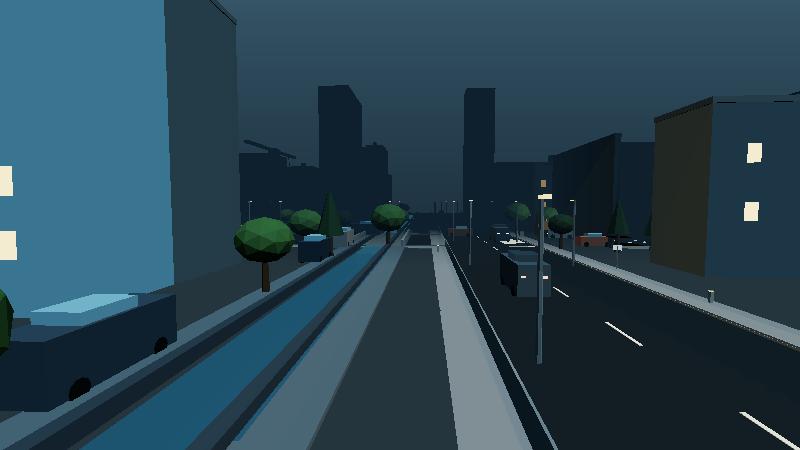
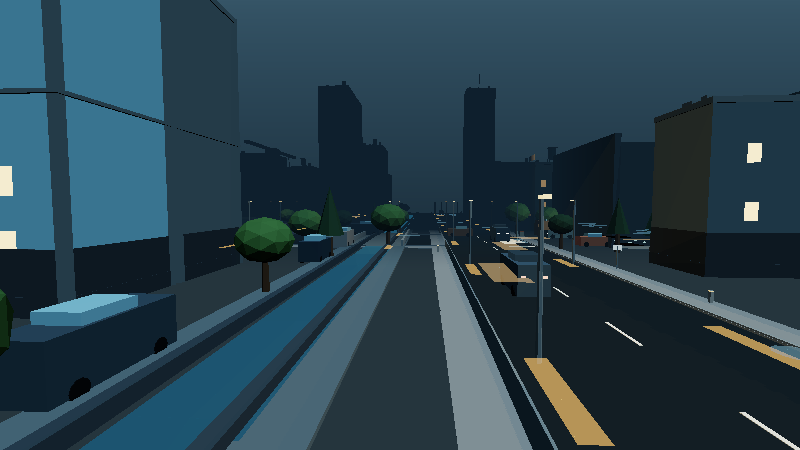
Wet streets, marker framing, and honest docs
- cityview: wet-street response driven by the weather -- asphalt darkens and
  glosses, pavement follows, ~120 puddles (24 on a phone) fade in, and each
  street lamp smears an additive reflection across the road
- config: puddle budget per tier
- tools/errand-shot: pick the approach camera by measuring how much of the
  frame the marker actually covers, instead of guessing a stand-off point;
  regenerates the three errand previews so the dockhand is visible in the open
- README: document the audio mixer, the wet-street pass, the new stealth
  numbers, and the four gameplay bugs this pass found

diff --git a/game_web/src/cityview.js b/game_web/src/cityview.js
@@ -127,6 +127,8 @@ export class CityView {
     this.time = 0;
     this.waterMeshes = [];
     this.lampLights = [];
+    this.wetMaterials = []; // asphalt/sidewalk meshes that darken and gloss in rain
+    this.puddles = [];
     this.rand = mulberry32(0xc17a1);
   }
 
@@ -175,6 +177,7 @@ export class CityView {
     this.buildLamps();
     this.buildProps();
     this.buildParkedVehicles();
+    this.buildPuddles();
     this.buildRain();
 
     this.stats.meshes = this.countMeshes();
@@ -243,6 +246,9 @@ export class CityView {
     bin.box(this.materials.concrete, 0, 0.06, -76.9, 280, 0.24, 2.2);
 
     const merged = bin.flush(this.root, "ground");
+    // The two biggest surfaces in the frame: the weather drives how they read.
+    this.wetMaterials.push({ material: this.materials.asphalt, kind: "asphalt" });
+    this.wetMaterials.push({ material: this.materials.sidewalk, kind: "sidewalk" });
     this.stats.triangles += merged.triangles;
   }
 
@@ -694,6 +700,39 @@ export class CityView {
       this.lampLights.push(light);
     }
     this.stats.instances += list.length * 2;
+
+    // Wet-road reflections. A real specular highlight needs a renderer that
+    // does specular; a phone at 1x with fog does not sell it either. These are
+    // thin additive streaks laid along the road under each lit lamp, which is
+    // how the wet-street look is actually achieved: the light smears in the
+    // water instead of sitting on it. Opacity is driven by wetness, so the
+    // street only mirrors when it has rained.
+    const streakGeo = new THREE.PlaneGeometry(1, 1);
+    streakGeo.rotateX(-Math.PI / 2);
+    const streakMat = new THREE.MeshBasicMaterial({
+      color: 0xffc879,
+      transparent: true,
+      opacity: 0,
+      blending: THREE.AdditiveBlending,
+      depthWrite: false,
+    });
+    const streaks = new THREE.InstancedMesh(streakGeo, streakMat, list.length);
+    streaks.name = "wet-lamp-streaks";
+    streaks.renderOrder = 2;
+    const sm = new THREE.Matrix4();
+    list.forEach((l, i) => {
+      // Sit the smear on the road side of the pole and stretch it away from
+      // the kerb, the way a lamp's reflection runs across wet asphalt.
+      sm.compose(
+        new THREE.Vector3(l.x + l.side * 2.2, 0.03, l.z),
+        new THREE.Quaternion().setFromEuler(new THREE.Euler(0, Math.PI / 2, 0)),
+        new THREE.Vector3(0.9, 1, 5.2),
+      );
+      streaks.setMatrixAt(i, sm);
+    });
+    streaks.instanceMatrix.needsUpdate = true;
+    this.root.add(streaks);
+    this.lampStreaks = streakMat;
   }
 
   // -------------------------------------------------------------- props
@@ -859,6 +898,87 @@ export class CityView {
     }
   }
 
+  // ------------------------------------------------------------- puddles
+  // Wet street response. In daylight a city can be dry and still read; in the
+  // rain the ground is the biggest surface on screen, and leaving it matte is
+  // what makes a rainy scene look like a clear one with lines drawn on it.
+  // Puddles are flat discs with an additive grey-blue sheen whose opacity is
+  // driven by the weather; the asphalt and pavement materials darken and gloss
+  // with the same signal.
+  buildPuddles() {
+    const count = this.tier.puddles ?? 0;
+    this.wetMaterials = [];
+    this.puddles = [];
+    if (!count) return;
+    // Big, smooth-ish discs: 12 segments is plenty at this size and keeps the
+    // whole set to one instanced draw call.
+    const geo = new THREE.CircleGeometry(1, 12);
+    geo.rotateX(-Math.PI / 2);
+    // Puddles are read by their *shine*, so they get a cool emissive body that
+    // sits just under the street's value. Plain reflective water is invisible
+    // in this scene: there is no environment map at night and nothing to
+    // reflect, so a physically-correct mirror just returns black.
+    const material = new THREE.MeshStandardMaterial({
+      color: 0x50646e,
+      emissive: 0x33474f,
+      emissiveIntensity: 0.85,
+      roughness: 0.12,
+      metalness: 0.45,
+      transparent: true,
+      opacity: 0,
+      depthWrite: false,
+      polygonOffset: true,
+      polygonOffsetFactor: -2,
+      polygonOffsetUnits: -2,
+    });
+    const inst = new THREE.InstancedMesh(geo, material, count);
+    inst.name = "puddles";
+    const m = new THREE.Matrix4();
+    const rand = mulberry32(0x9a17);
+    let placed = 0;
+    let guard = 0;
+    while (placed < count && guard++ < count * 40) {
+      const r = this.city.roads[Math.floor(rand() * this.city.roads.length)];
+      const x = r.x1 + rand() * (r.x2 - r.x1);
+      const z = r.z1 + rand() * (r.z2 - r.z1);
+      if (this.inWater(x, z)) continue;
+      // Sit each puddle on the road surface, not the base slab.
+      // Road surfaces sit at y = 0.02, so puddles go just above that.
+      m.compose(
+        new THREE.Vector3(x, 0.028, z),
+        new THREE.Quaternion().setFromEuler(new THREE.Euler(0, rand() * Math.PI, 0)),
+        new THREE.Vector3(0.7 + rand() * 2.1, 1, 0.5 + rand() * 1.4),
+      );
+      inst.setMatrixAt(placed, m);
+      placed += 1;
+    }
+    inst.count = placed;
+    inst.instanceMatrix.needsUpdate = true;
+    inst.renderOrder = 1;
+    this.root.add(inst);
+    this.puddleMaterial = material;
+    this.stats.instances += placed;
+  }
+
+  /** Rain response for the ground: puddles fade in, streets darken and gloss. */
+  setWetness(level) {
+    const w = Math.max(0, Math.min(1, level));
+    if (this.puddleMaterial) this.puddleMaterial.opacity = 0.03 + w * 0.34;
+    if (this.lampStreaks) this.lampStreaks.opacity = w * 0.17;
+    // Asphalt gets darker and much shinier as it soaks; the pavement follows
+    // more slowly, which is what makes a street look wet rather than painted.
+    for (const entry of this.wetMaterials) {
+      const mat = entry.material;
+      if (entry.kind === "asphalt") {
+        mat.roughness = 0.62 - w * 0.4;
+        mat.metalness = 0.12 + w * 0.5;
+      } else {
+        mat.roughness = 0.95 - w * 0.3;
+        mat.metalness = 0.02 + w * 0.14;
+      }
+    }
+  }
+
   // --------------------------------------------------------------- rain
   buildRain() {
     const count = this.tier.rain || 0;
@@ -898,8 +1018,15 @@ export class CityView {
   }
 
   // --------------------------------------------------------------- update
-  update(dt, camera, weather = null) {
+  update(dt, camera, weather = null, wetness = null) {
     this.time += dt;
+    // Wet ground follows the same wetness signal the audio and HUD use, so the
+    // puddles do not disagree with the rain the player can hear.
+    if (wetness !== null && wetness !== undefined) {
+      this.setWetness(wetness);
+    } else if (weather) {
+      this.setWetness(weather.rainRate ?? 0);
+    }
     if (weather) {
       this.rainRate = weather.rainRate;
       const wa = weather.windAngle;

diff --git a/game_web/src/main.js b/game_web/src/main.js
@@ -569,7 +569,7 @@ function frame(now) {
     weather.update(dtReal);
     wetness.update(dtReal, weather.rainRate);
     if (animator) animator.update(dtReal);
-    cityView.update(dtReal, camera, weather);
+    cityView.update(dtReal, camera, weather, wetness.level);
     render(now / 1000, dtReal);
     return;
   }
@@ -600,7 +600,7 @@ function frame(now) {
   }
   view.syncCharacters(world);
   view.update(dtReal, world.time, world.hud());
-  cityView.update(dtReal, camera, weather);
+  cityView.update(dtReal, camera, weather, wetness.level);
   syncStreetActors(dtReal);
   syncErrandMarkers(now / 1000);
   updateAudio(dtReal);

diff --git a/game_web/src/config.js b/game_web/src/config.js
@@ -16,6 +16,7 @@ export const TIERS = {
     shadowMapSize: 512,
     propShadowCasters: false,
     rain: 900,
+    puddles: 24,
     fogNear: 26,
     fogFar: 120,
     drawDistance: 150,
@@ -36,6 +37,7 @@ export const TIERS = {
     shadowMapSize: 1024,
     propShadowCasters: false,
     rain: 1800,
+    puddles: 64,
     fogNear: 30,
     fogFar: 160,
     drawDistance: 220,
@@ -56,6 +58,7 @@ export const TIERS = {
     shadowMapSize: 2048,
     propShadowCasters: true,
     rain: 3200,
+    puddles: 120,
     fogNear: 34,
     fogFar: 190,
     drawDistance: 260,

diff --git a/game_web/README.md b/game_web/README.md
@@ -50,7 +50,14 @@ npm run smoke          # drives the page, presses keys, checks the frame
 
 - **Simulation** (`src/world.js`, `src/collision.js`, `src/geom.js`): stamina,
   noise propagation, hearing, cone-of-sight detection, suspicion, hunt, catch,
-  checkpoint restart, timed objective, scoring. 25 of the checks cover this.
+  checkpoint restart, timed objective, scoring. Stealth has to be survivable:
+  a crouch is silent, a walk carries ~5 m, a sprint ~9 m; a collector runs at
+  1.55× their patrol walk while they can see you and jogs at 1.15× to where they
+  last saw you, and gives up a hunt after 7.5 s without a sighting. Kerbs and
+  quay lips are *steps*, not walls, so the lane mouth is open. 32 of the checks
+  cover this, including a flood-fill that proves every objective is walkable
+  from the spawn. `tools/bot.mjs` is a headless playthrough bot used to find the
+  above; it reports win rate, time, sightings and where a run stalls.
 - **Level** (`src/level.js`, `src/scene.js`): a night loading lane with shop
   fronts, cover, a walkway, a dock and a market mouth; 7 practicals, one
   shadow-casting moon, procedural canvas textures. All study geometry.
@@ -63,15 +70,28 @@ npm run smoke          # drives the page, presses keys, checks the frame
   harbour. Roads, pavements, kerbs, road paint, a canal with three bridges, a
   harbour basin and a park pond are all generated from the same plain data the
   tests use. 26 of the checks cover it.
+- **Audio** (`src/audio.js`): a synthesised mixer, no audio assets. Rain, wind and
+  city hum beds follow the weather blend; tyres are panned by distance and
+  speed; footsteps follow the animation phase and change with stance and wetness;
+  thunder, honks, splashes, landings and errand pings are event-driven. Fifteen
+  voices, with the drop count kept. Starts only on the Begin click, `M` mutes.
 - **Street life** (`src/traffic.js`): 4–14 vehicles on closed routes that keep to
   the road network, brake for the player, each other and pedestrians, honk when
   stuck, and knock the player down on contact; 8–16 pedestrians who keep to the
   pavement, flee fast cars, and can be scattered by the chaos director.
+- **Wet streets** (`src/cityview.js` `setWetness`): the rain drives the ground, not
+  just the sky. Asphalt darkens and glosses, pavement follows more slowly,
+  ~120 puddles (24 on a phone) fade in, and every street lamp smears a thin
+  additive reflection across the road under it. The look is authored rather than
+  physically reflected — there is no environment map at night, and a phone at 1×
+  does not sell a specular highlight — but it is what makes a downpour read as
+  wet instead of as a clear scene with lines drawn on it.
 - **Weather** (`src/weather.js`): five presets (drizzle, downpour, squall,
   breaking cloud, harbour fog) that blend over ~18 s and change every 55–125 s.
   Sky, fog distance, rain density, wind slant, ambient fill and exposure all come
-  from one blend; wetness builds during rain and drains slowly afterwards.
-  Lightning is disabled on the phone tier and under `prefers-reduced-motion`.
+  from one blend; wetness builds during rain and drains slowly afterwards and
+  feeds the wet-street pass above. Lightning is disabled on the phone tier and
+  under `prefers-reduced-motion`.
 - **Chaos** (`src/world.js` `updateChaos`): every 11–22 s the district does
   something that is visible in the world, not only in a log:
   - **jam** — three cars in a row stop dead for 6–11 s (and honk);
@@ -184,6 +204,13 @@ Fixed while building the slice, each with a regression test where possible:
   every gapped wall from collision (no error, no collider);
 - a hard building cap applied block-by-block, which exhausted itself in the
   north and left the whole southern district empty on the phone tier;
+- the collision solver treating a 22 cm kerb as a wall, which sealed the lane
+  mouth: the player could not walk out of the lane through its own entrance;
+- every footstep beating the collectors' 7 m hearing radius, so walking near a
+  guard pulled them onto you no matter what cover you used;
+- pursuit at 2.05× patrol walk (2.15 m/s) against a 3.4 m/s sprint, with no
+  give-up timer while you were within 10 m — once spotted, being caught was the
+  only possible outcome;
 - pedestrians that "fled" by advancing a walk animation but never moving;
 - pedestrians pulling cars to a full stop, jamming every route permanently;
 - vehicles reporting the heading of the *outbound* leg on the return leg, so
